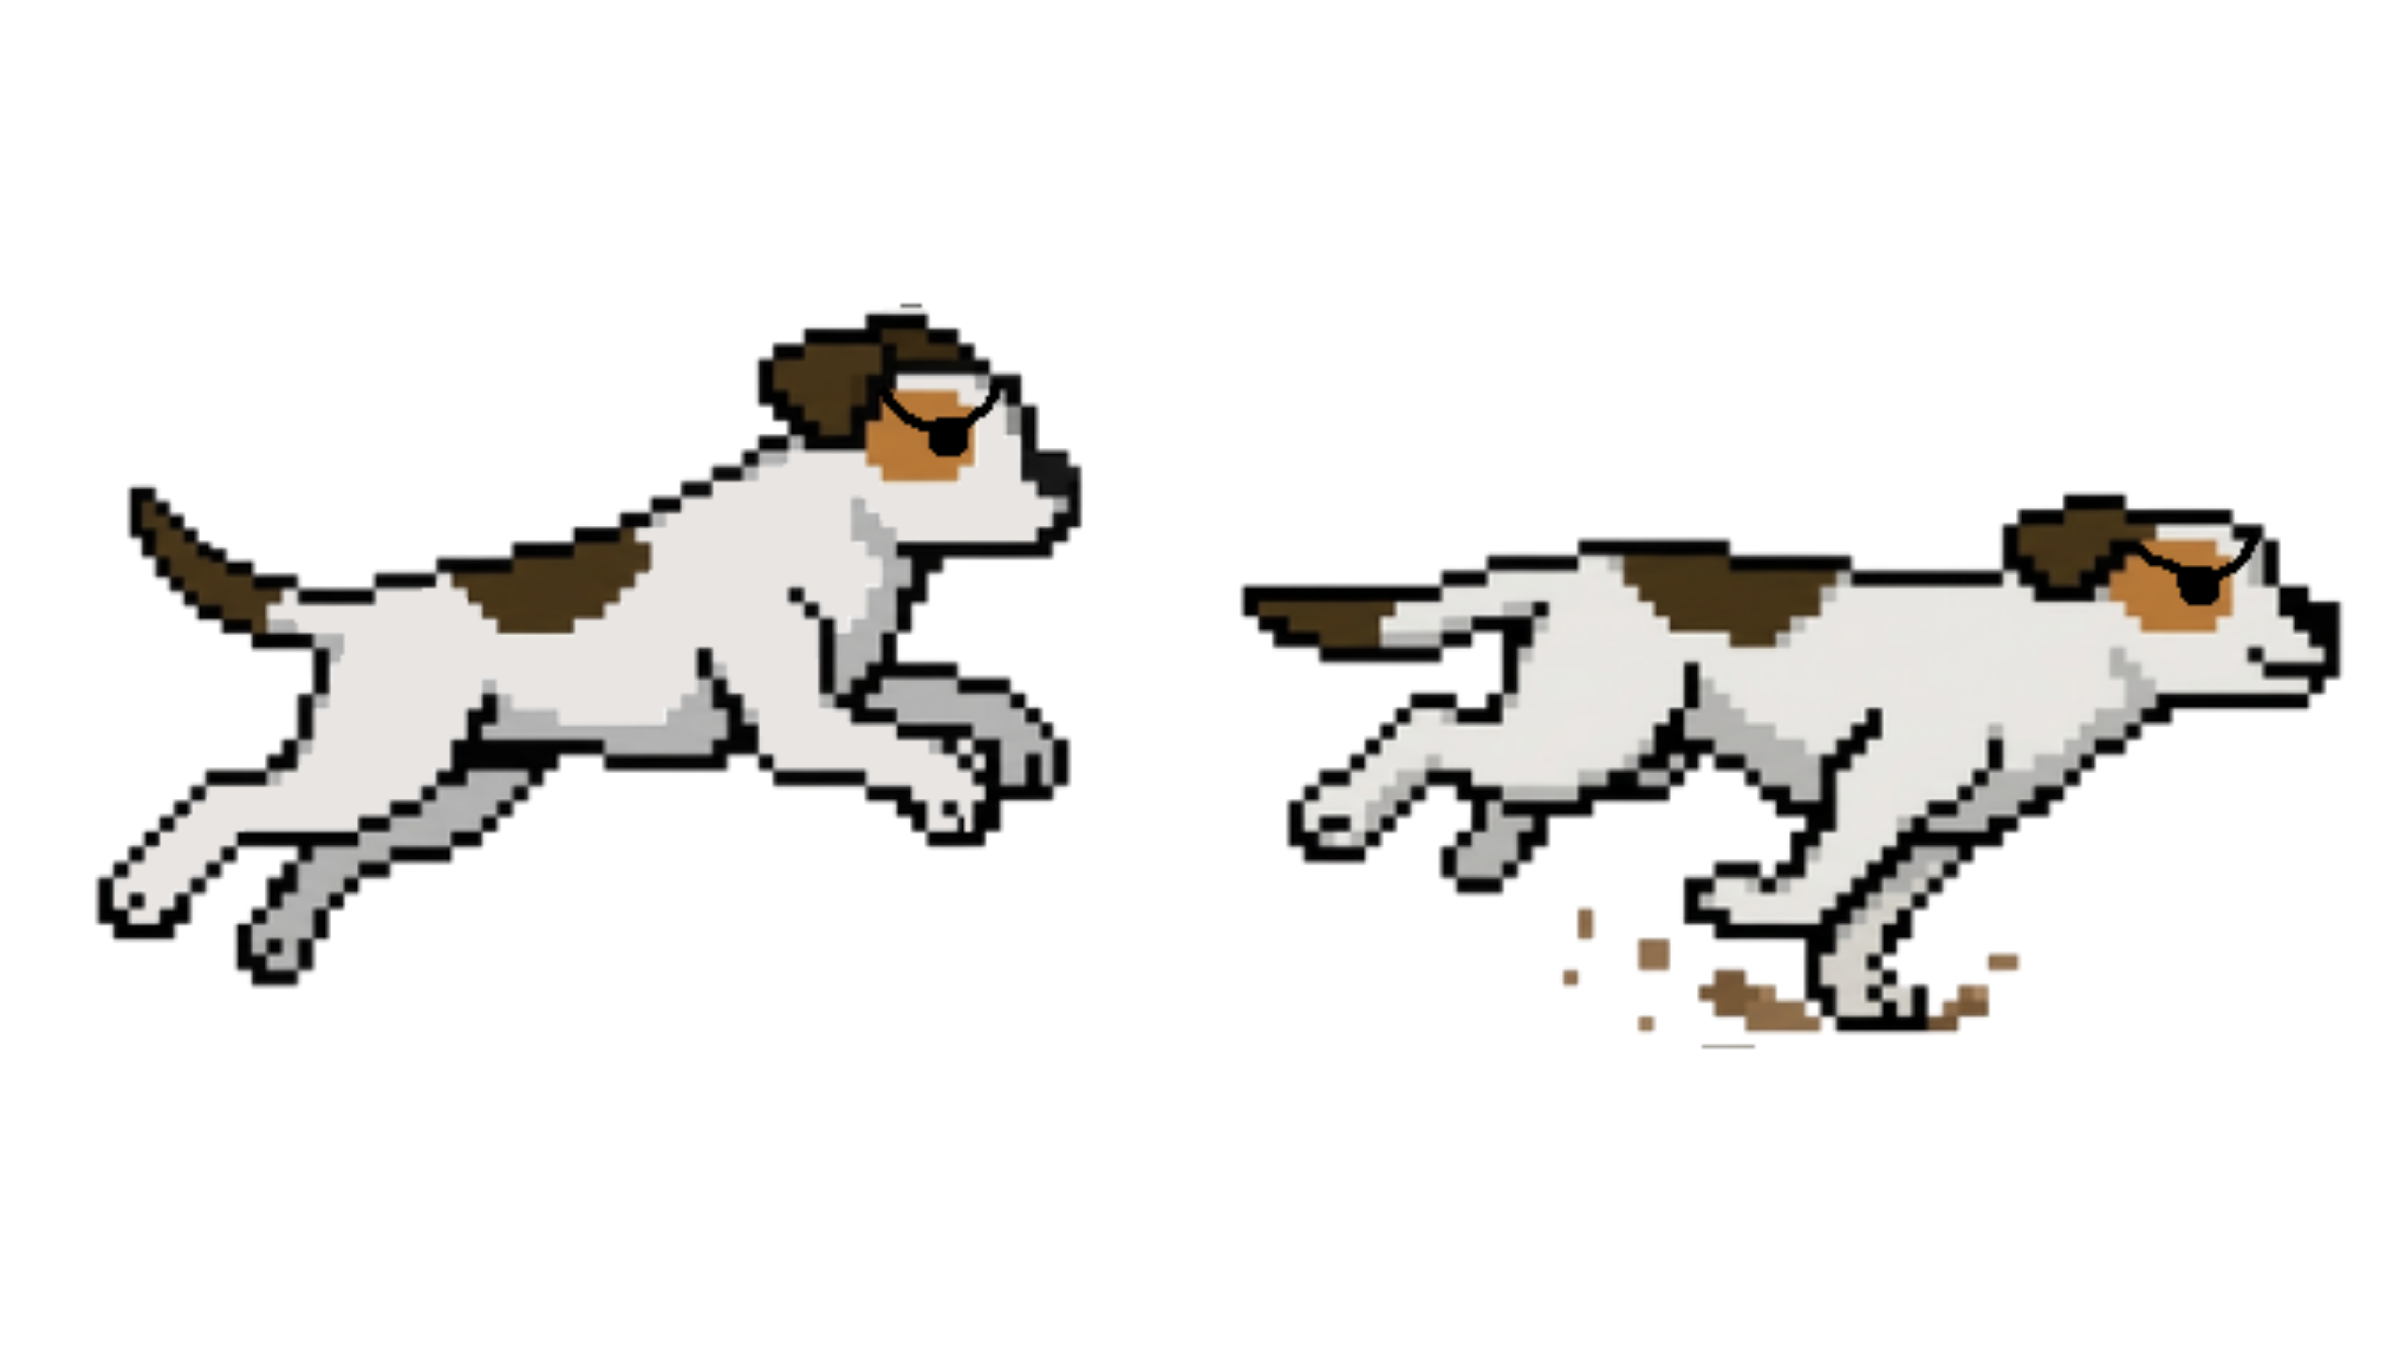
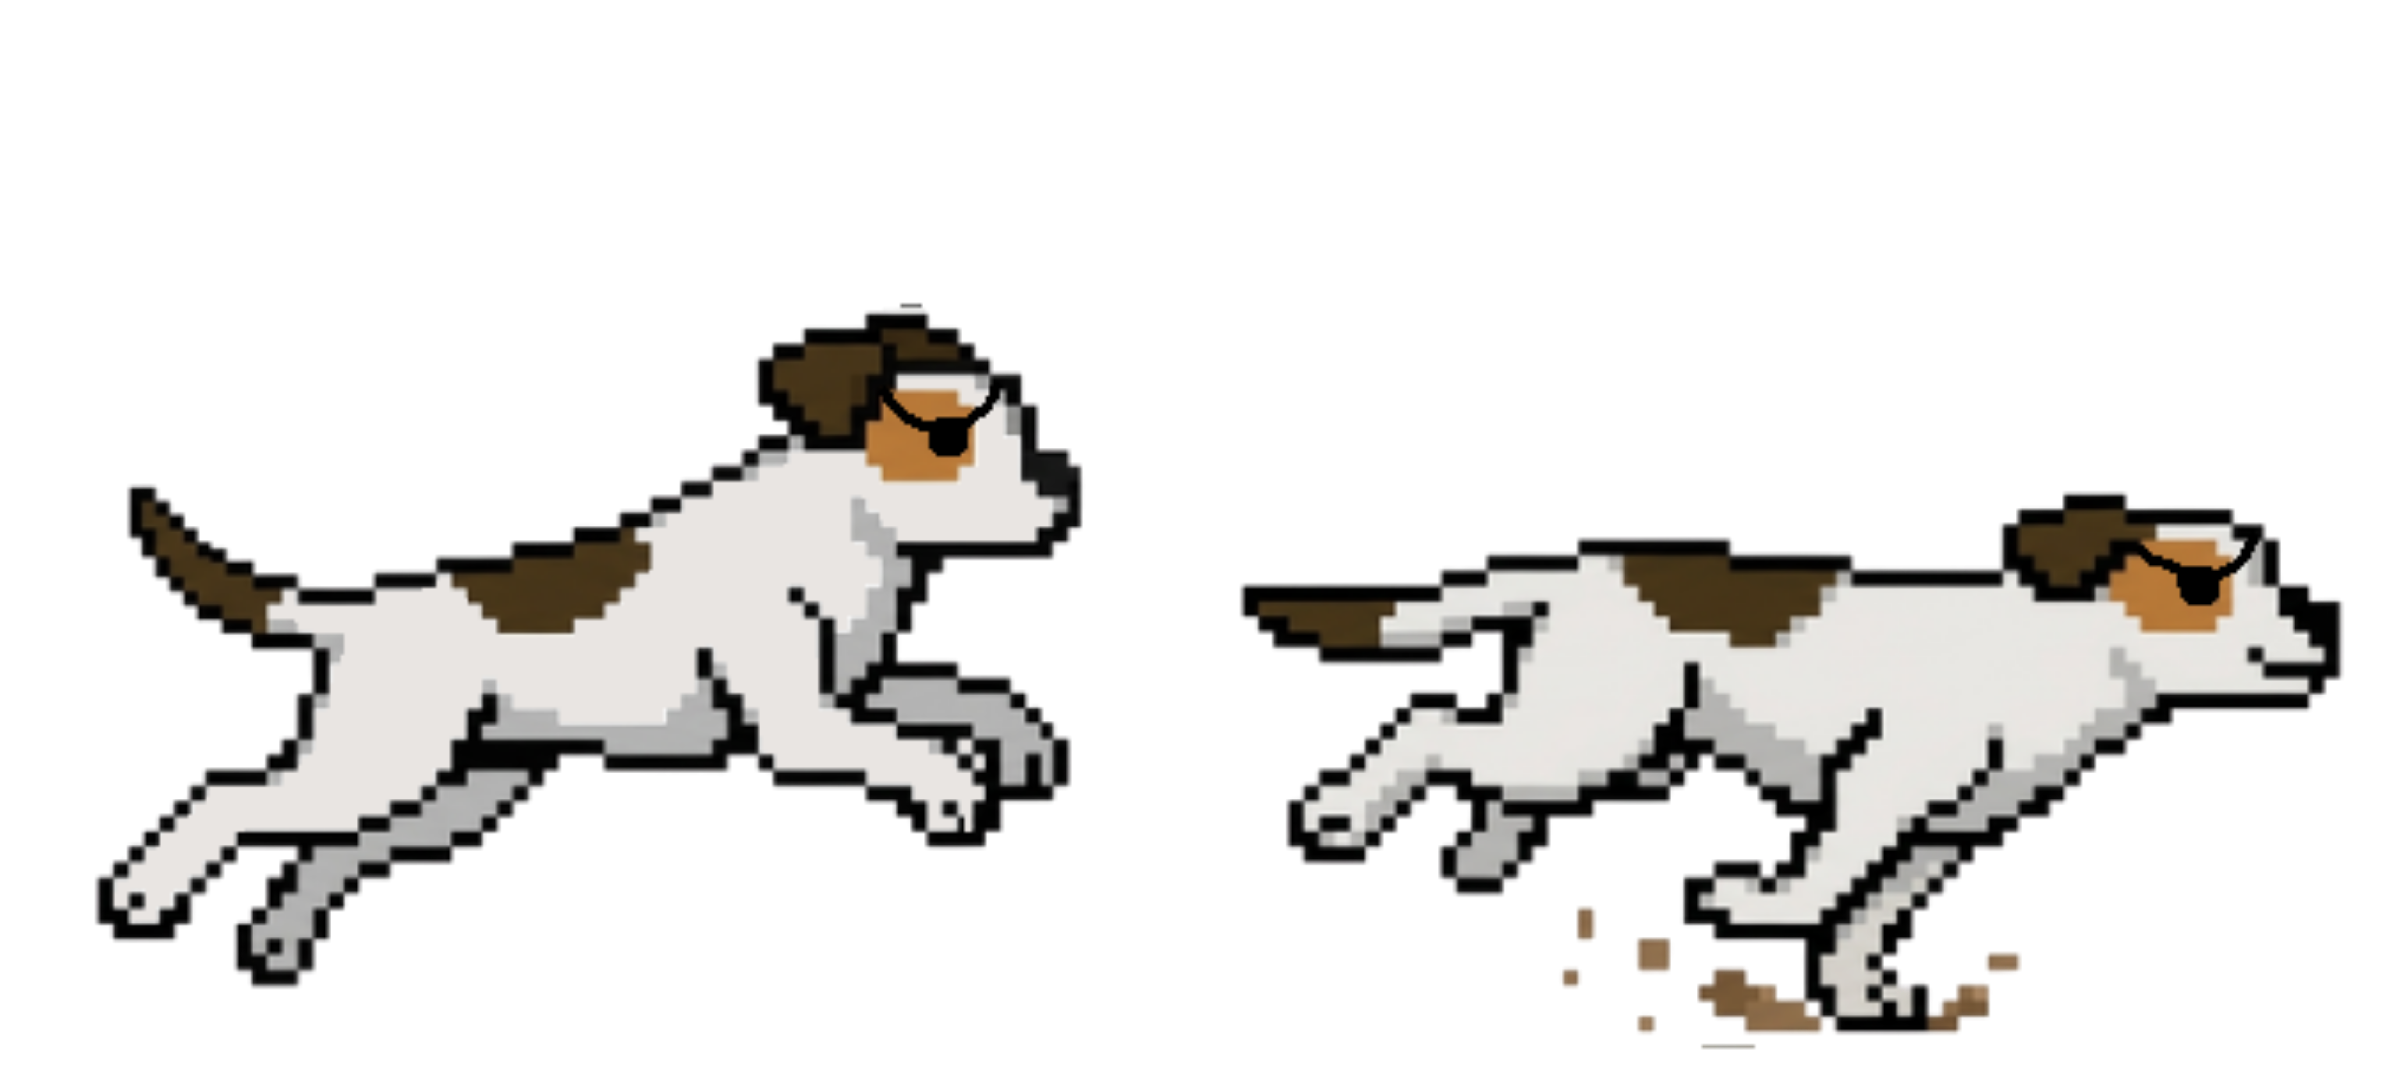
fix: ajuste escalas dos cachorros

Changed region(s): [[0.4992, 0.3643, 0.9983, 0.9715], [0.0312, 0.2125, 0.468, 0.9108]]

diff --git a/public/src/cenas/cenaCarregamento.js b/public/src/cenas/cenaCarregamento.js
@@ -190,8 +190,8 @@ export class cenaCarregamento extends Phaser.Scene {
             frameHeight: 280 
         });
         this.load.spritesheet("cachorroHeroiCorrendo", "assets/cachorroHeroiCorrendo.png", {
-            frameWidth: 920,
-            frameHeight: 1080 
+            frameWidth: 1202,
+            frameHeight: 1087 
         });
         this.load.spritesheet("cachorroJoaoCorrendo", "assets/cachorroJoaoCorrendo.png", {
             frameWidth: 338,

diff --git a/public/src/cenas/jogoLazer.js b/public/src/cenas/jogoLazer.js
@@ -78,7 +78,7 @@ export class jogoLazer extends Phaser.Scene {
         
         // --- MUDANÇA DA ESCALA ---
         // Define a escala base dependendo do pet
-        this.escalaBase = gameState.pets.cachorroJoao ? 0.3 : (gameState.pets.cachorroHeroi ? 0.3 : 0.5);
+        this.escalaBase = gameState.pets.cachorroJoao ? 0.3 : (gameState.pets.cachorroHeroi ? 0.2 : 0.5);
         this.cachorro.setScale(this.escalaBase); 
         // -------------------------
 
